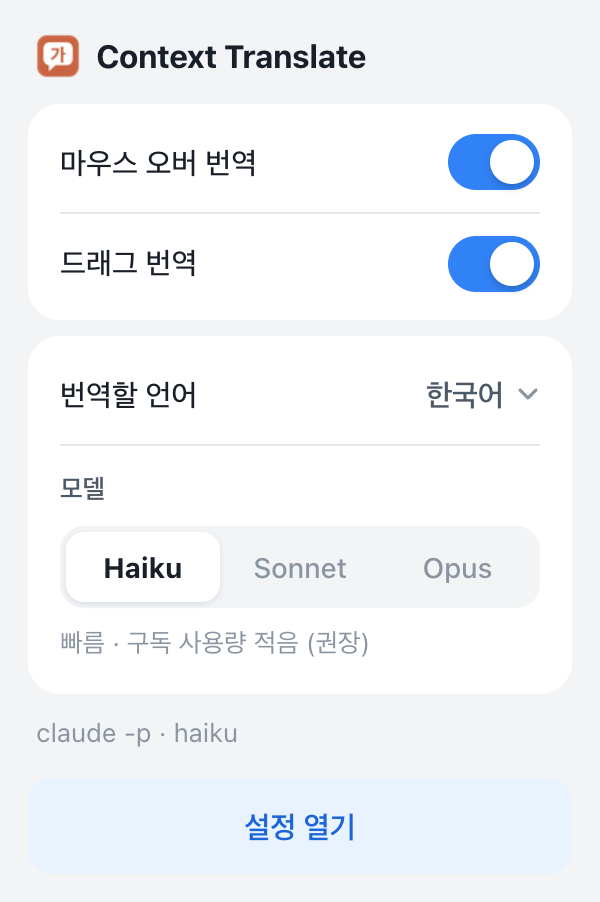
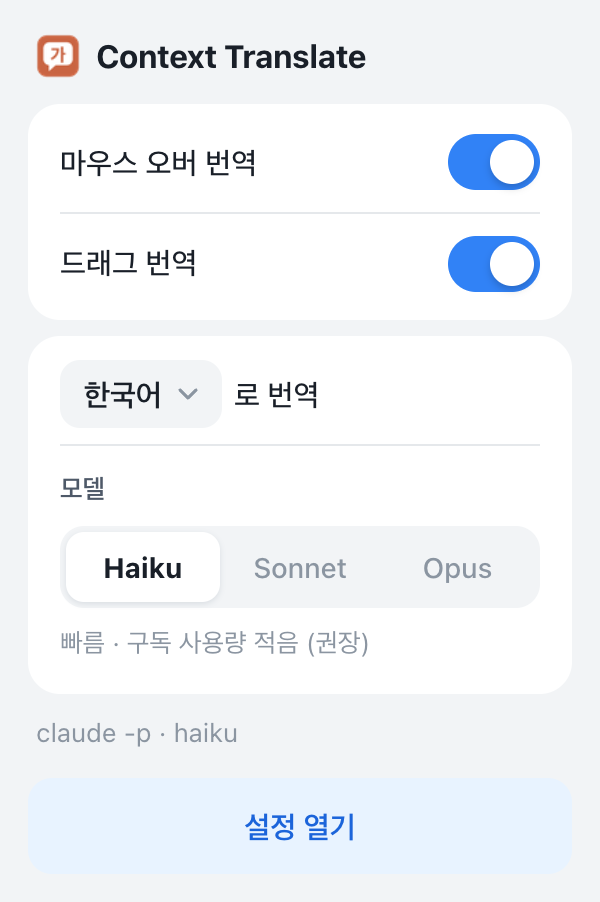
fix: 목표 언어 칸 문구를 "번역할 언어" → 팝업 "[한국어 ▾]로 번역", 설정 "이 언어로 번역"
"번역할 언어 = 한국어"가 "한국어를 번역한다"로도 읽혀서 방향이 헷갈렸음.
- 팝업: 선택창을 앞에 두고 뒤에 "로 번역" → "한국어로 번역"처럼 한 문장으로 읽힘
  (선택창 폭은 field-sizing: content로 고른 언어 이름에 맞춤)
- 설정 페이지: 라벨 "이 언어로 번역", 설명 문장도 맞춤
- README·CLAUDE.md 문구, 팝업 스크린샷(라이트·다크) 갱신

diff --git a/src/ui.css b/src/ui.css
@@ -129,11 +129,13 @@ pre#testOut:empty { display: none; }
 .popup .card { background: var(--card); border-radius: 16px; padding: 4px 16px; margin-bottom: 8px; }
 .popup .card .item { min-height: 50px; }
 .popup .card .item + .item { border-top: 1px solid var(--line); }
+/* "[한국어 ▾]로 번역"처럼 한 문장으로 읽히게: 선택창이 앞, 고른 언어 이름 폭에 맞춤 */
+.popup .item.lang { justify-content: flex-start; gap: 6px; cursor: pointer; }
 .popup .item.lang select {
-  width: auto; max-width: 160px; background-color: transparent; padding: 6px 26px 6px 8px; margin-right: -8px;
-  text-align: right; text-align-last: right; font-weight: 600; color: var(--fg2); background-position: right 6px center;
+  width: auto; max-width: 190px; field-sizing: content; padding: 6px 30px 6px 12px; border-radius: 10px;
+  font-weight: 600; background-position: right 9px center;
 }
-.popup .item.lang select:hover { background-color: var(--field); }
+.popup .item.lang > span { white-space: nowrap; }
 .popup #status { margin: 10px 4px 12px; overflow-wrap: anywhere; }
 .popup #status.err { color: var(--err); }
 .popup button.full { padding: 13px 16px; }

diff --git a/src/options.html b/src/options.html
@@ -54,10 +54,10 @@
   <section>
     <h2>언어</h2>
     <div class="grid2">
-      <label class="field"><span>번역할 언어</span><select id="targetLang"></select></label>
+      <label class="field"><span>이 언어로 번역</span><select id="targetLang"></select></label>
       <label class="field"><span>이미 그 언어라면 대신</span><select id="fallbackLang"></select></label>
     </div>
-    <p class="desc">원문 언어는 자동으로 알아내요. 번역할 언어는 툴바 팝업에서도 바꿀 수 있어요.</p>
+    <p class="desc">원문 언어는 자동으로 알아내요. 어떤 언어로 번역할지는 툴바 팝업에서도 바꿀 수 있어요.</p>
   </section>
 
   <section>

diff --git a/src/popup.js b/src/popup.js
@@ -71,7 +71,7 @@ function render(s) {
   renderStatus(s);
 }
 
-// 번역할 언어: 저장값이 목록에 없으면(예전 코드 등) 끝에 붙여 보여줌
+// 이 언어로 번역(목표 언어): 저장값이 목록에 없으면(예전 코드 등) 끝에 붙여 보여줌
 function fillLangs(s) {
   const sel = $('targetLang');
   sel.textContent = '';

diff --git a/src/popup.html b/src/popup.html
@@ -13,7 +13,7 @@
   </div>
 
   <div class="card">
-    <label class="item lang"><span>번역할 언어</span><select id="targetLang" aria-label="번역할 언어"></select></label>
+    <label class="item lang"><select id="targetLang" aria-label="이 언어로 번역"></select><span>로 번역</span></label>
     <div id="models"></div>
   </div>
 

diff --git a/CLAUDE.md b/CLAUDE.md
@@ -38,7 +38,7 @@ tests/      e2e.mjs, host.test.mjs, fake-claude.mjs(가짜 claude — 구독 사
 - 모델 선택: provider가 `models: { key, choices: [{value,label,hint}] }`로 **계열별 최신 모델만** 선언 → 설정 페이지(select)와 **툴바 팝업(세그먼트 버튼 Haiku/Sonnet/Opus)**에 자동 표시. 저장값이 목록에 없으면(예전 id) `modelChoices()`가 끝에 붙여 보여줌
   - claude-cli: `haiku`/`sonnet`/`opus` 별칭(항상 최신). 실측 2026-11-06 대기 프로세스·단어 1개: 세 모델 모두 완성 ~1.2~1.7s, Opus는 구독 사용량을 더 씀
   - anthropic-api: `claude-haiku-5-5`/`claude-sonnet-5-5`/`claude-opus-5-5`. `requestOptions()`: Haiku는 thinking disabled, Sonnet은 `between_tools`(disabled는 400), Opus는 thinking을 못 끄므로 effort low + max_tokens 하한 4000. 5.5 세대는 temperature를 보내면 400이라 안 보냄 — **실제 API 키로는 미검증**
-- 언어 (2026-11-10): `LANGS` 20개, 원문 언어는 LLM이 자동 판단. 목표 언어는 설정 페이지 + **툴바 팝업 select**에서 변경. 프롬프트의 **시스템 부분에는 언어를 넣지 않고** user 메시지 끝(`Answer in:` / `<target_language>`)에 붙임 → 언어를 바꿔도 claude-cli 대기 프로세스(모델·시스템 프롬프트별)를 그대로 재사용
+- 언어 (2026-11-10): `LANGS` 20개, 원문 언어는 LLM이 자동 판단. 목표 언어는 설정 페이지("이 언어로 번역") + **툴바 팝업 select**("[한국어 ▾]로 번역" — 선택창이 앞, 한 문장으로 읽힘)에서 변경. 예전 문구 "번역할 언어"는 "한국어를 번역한다"로도 읽혀서 바꿈 (2026-11-12). 프롬프트의 **시스템 부분에는 언어를 넣지 않고** user 메시지 끝(`Answer in:` / `<target_language>`)에 붙임 → 언어를 바꿔도 claude-cli 대기 프로세스(모델·시스템 프롬프트별)를 그대로 재사용
 - popup/options UI는 토스(TDS) 느낌: 회색 배경 + 흰 카드, 파랑 `#3182f6`, 체크박스는 토글 스위치, 해요체 문구. 툴팁(content.js Shadow DOM)은 아직 예전 색(Claude 주황) 그대로
 - popup/options는 엔진 상태를 직접 확인하지 않고 background에 `{type:'engineStatus'}`로 물음 (`core/status-client.js`). 직접 `available()`을 부르면 claude-cli가 그 페이지만의 native host와 대기 claude 프로세스를 따로 띄웠다 버림
 - claude는 content block마다 `assistant` 이벤트를 보냄 → host는 **text 블록이 든 assistant에서만** 완료 처리 (thinking만 든 이벤트에서 끝내 빈 번역이 나오던 버그, Haiku 5.5에서 발생)

diff --git a/README.md b/README.md
@@ -11,12 +11,12 @@
 
 <picture>
   <source media="(prefers-color-scheme: dark)" srcset="docs/images/popup-dark.png">
-  <img src="docs/images/popup.png" width="300" alt="툴바 팝업: 켜기/끄기, 번역할 언어, 모델 선택">
+  <img src="docs/images/popup.png" width="300" alt="툴바 팝업: 켜기/끄기, 어떤 언어로 번역할지, 모델 선택">
 </picture>
 
 - **문맥 번역**: "run a quick errand"의 run은 "달리다"가 아니라 "(볼일을) 처리하다". 다른 주요 뜻도 한 줄로 함께 보여줍니다.
 - **빠름**: 미리 띄워 둔 `claude` 프로세스를 써서 보통 1~2초 안에 뜹니다. 기다리는 동안 경과 시간이 표시되고, 3초가 넘으면 안내가 나옵니다.
-- **여러 언어**: 원문 언어는 자동으로 알아내고, 번역할 언어는 한국어·English·日本語·中文 등 20개 중에서 툴바 아이콘에서 바로 바꿀 수 있습니다.
+- **여러 언어**: 원문 언어는 자동으로 알아내고, 어떤 언어로 번역할지는 한국어·English·日本語·中文 등 20개 중에서 툴바 아이콘에서 바로 바꿀 수 있습니다.
 - **모델 선택**: 툴바 아이콘에서 Haiku / Sonnet / Opus (각 계열의 최신 모델) 중 고를 수 있습니다.
 - 긴 글(최대 20,000자)도 드래그해서 번역할 수 있고, 같은 단어·문맥은 다시 묻지 않고 바로 보여줍니다.
 
@@ -68,7 +68,7 @@ npm run setup
 
 **설정** (툴바 아이콘 → 설정 열기)
 
-- 번역할 언어 (기본: 한국어, 이미 한국어면 영어로 — 둘 다 바꿀 수 있음. 번역할 언어는 툴바 팝업에서도 변경)
+- 어떤 언어로 번역할지 (기본: 한국어, 이미 한국어면 영어로 — 둘 다 바꿀 수 있음. 툴바 팝업에서도 변경)
 - 마우스 오버 대기 시간, `Alt`/`Shift`/`⌘`를 누른 채로만 번역하기
 - 문맥을 얼마나 함께 보낼지 (없음 / 해당 문장 / 앞뒤 ±350자)
 - 드래그하면 바로 번역 / [번역] 버튼을 눌러야 번역
